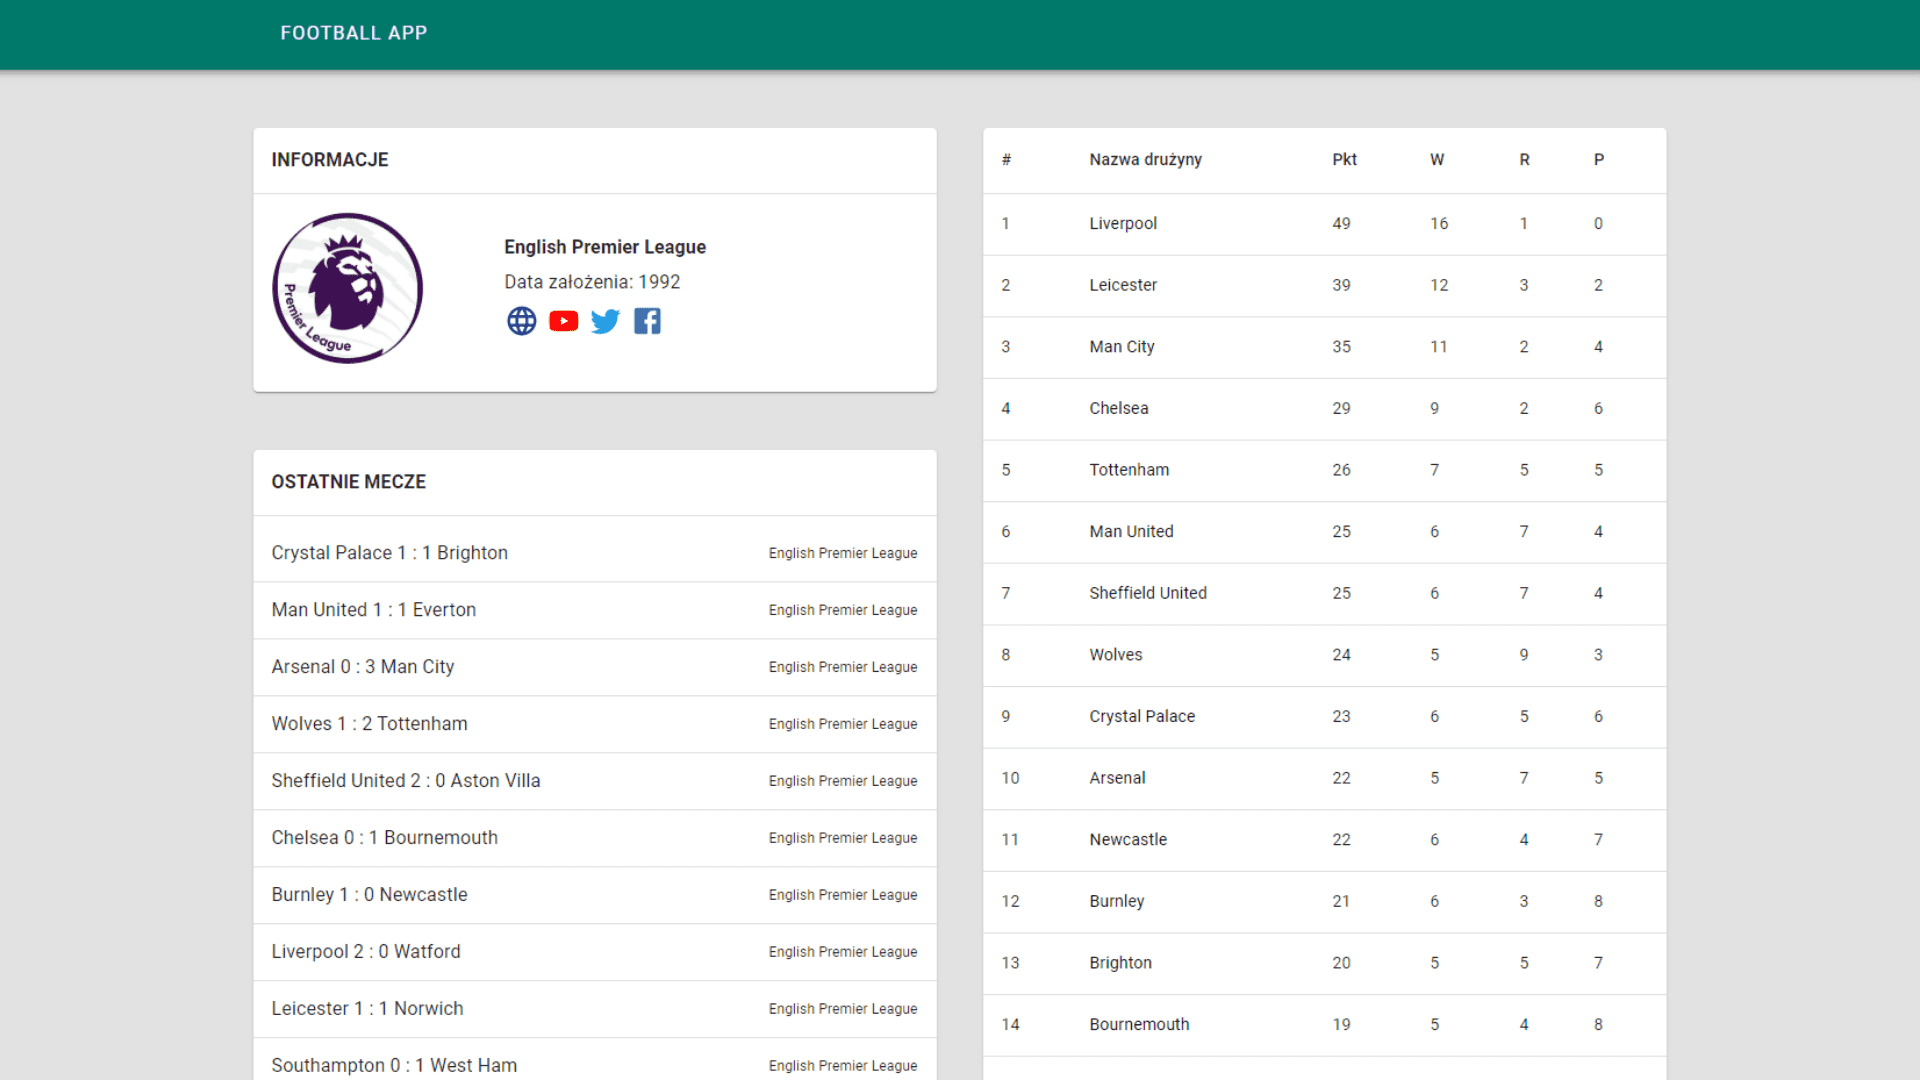
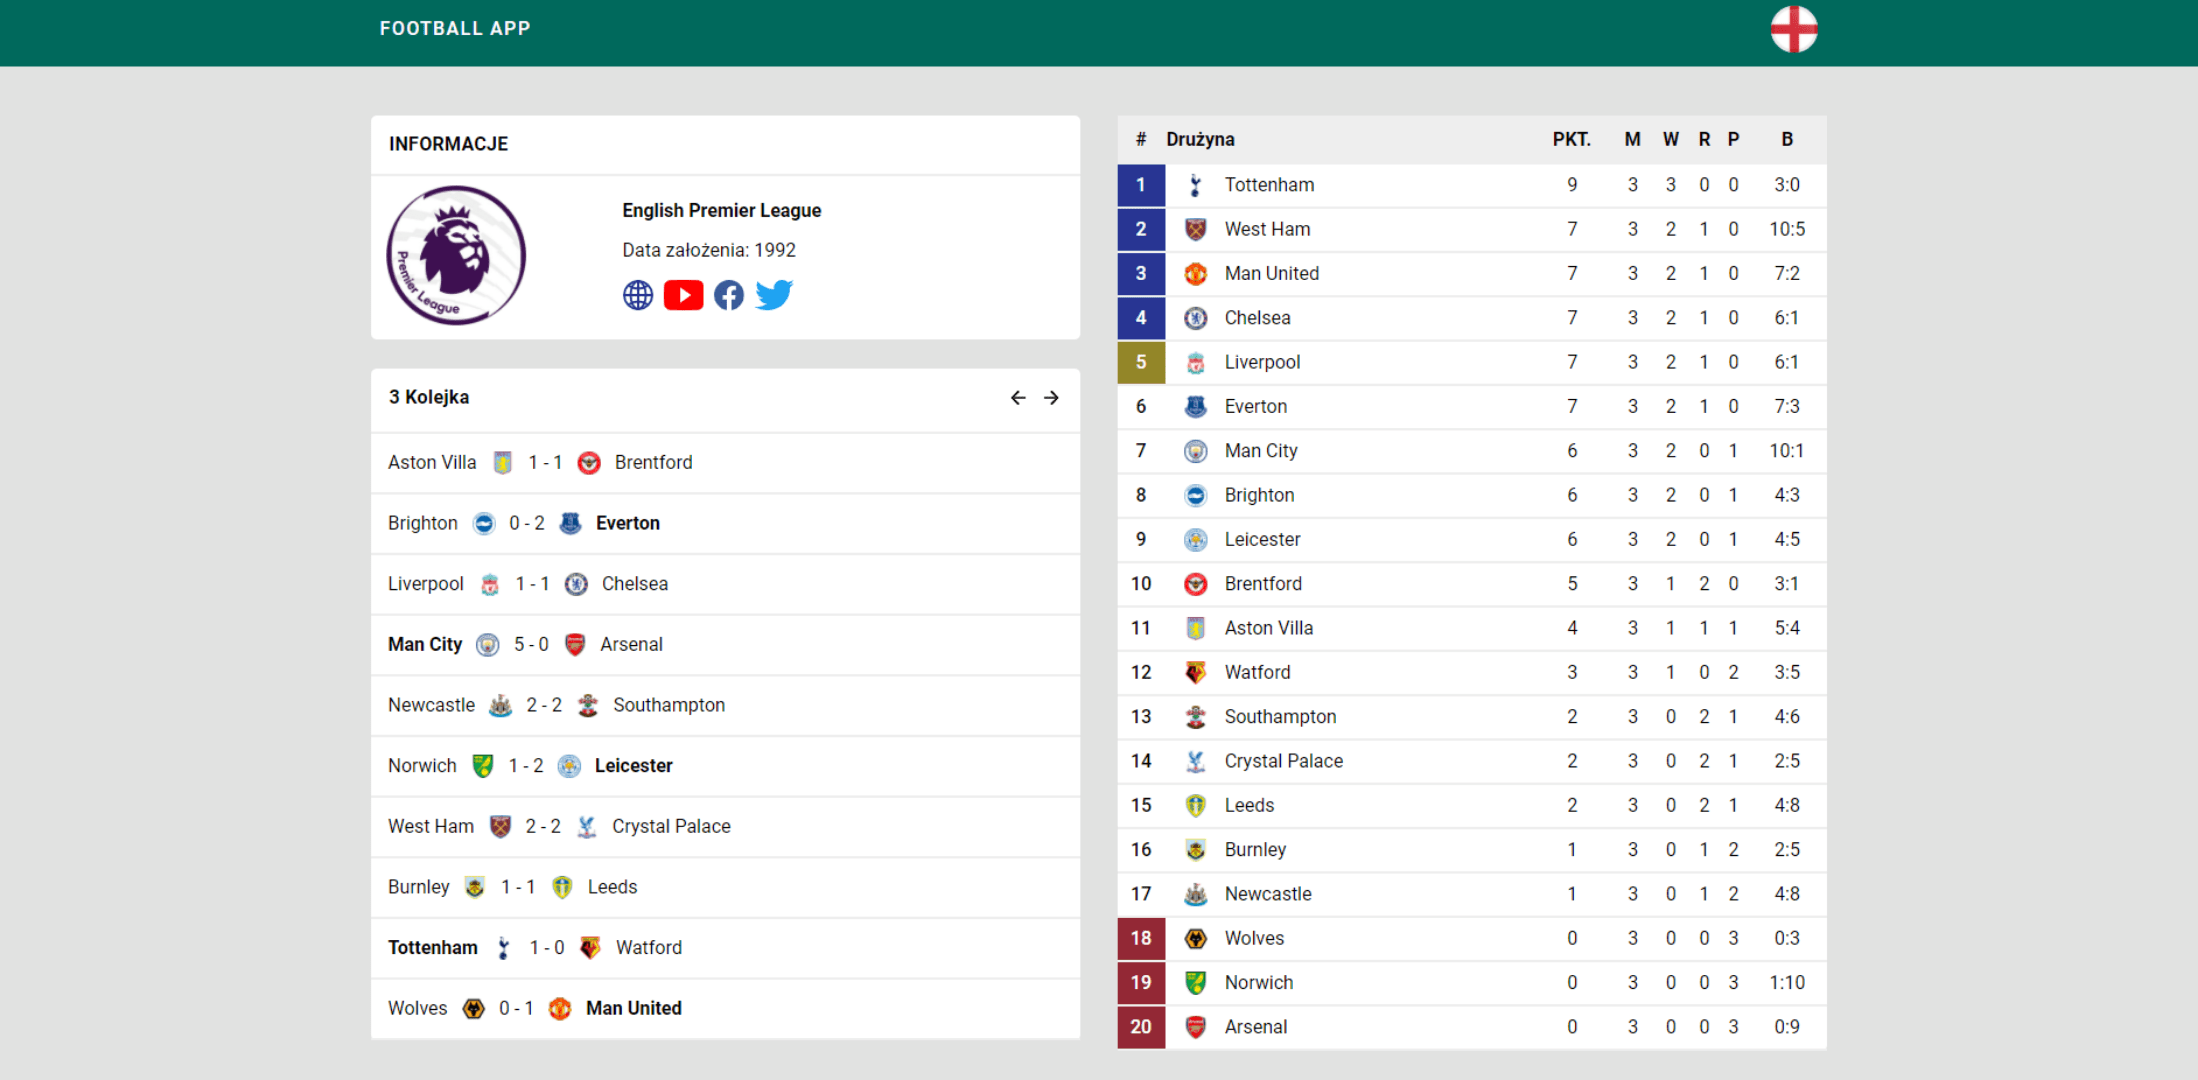
update content on website

diff --git a/index.html b/index.html
@@ -336,36 +336,33 @@
           <div class="col-12 col-m-10 col-l-6">
             <div class="project__img">
               <img
-                src="./app/assets/img/projects/pokedex.png"
+                src="./app/assets/img/projects/football_app.png"
                 alt="obrazek przedstawiający projekt"
               />
             </div>
           </div>
           <div class="col-12 col-m-10 col-l-6 project--left">
             <div class="project">
-              <h3 class="project__title">Pokedex</h3>
+              <h3 class="project__title">Football app</h3>
               <ul>
                 <li class="project__technology">
                   React
                 </li>
-                <li class="project__technology">Redux</li>
-                <li class="project__technology">Material UI</li>
+                <li class="project__technology">Styled components</li>
               </ul>
               <p class="project__description">
-                Aplikacja na głównej stronie wyświetla listę wszystkich pokemonów, na samym dole
-                mamy dostepną paginację. Pokemony możemy filtrować ze wzgęldu na ich typ, oraz sortować
-                alfabetycznie. Klikając na danego pokemona dostępny jest jego szczegółowy widok. Aplikacja posiada także
-                możliwość wyszukiwania pokemonów po nazwie.
+                Aplikacja wyświetla informacje dla najpopularniejszych europejskich lig piłkarskich. Projekt składa się z widoku ligi gdzie mamy dostępną aktualną
+                tabelę a także terminarz spotkań. Klikając w strzałki możemy przejśc do poprzedniej lub następnej kolejki danych rozgywek.
               </p>
               <div class="project__btn-wrapper">
                 <a
-                  href="https://github.com/zloty60/pokedex"
+                  href="https://github.com/zloty60/football-app"
                   class="button button--orange-light button--m"
                 >
                   code
                 </a>
                 <a
-                  href="https://zloty60.github.io/pokedex/#/"
+                  href="https://zloty60.github.io/football-app/#/"
                   class="button button--green button--m"
                   >live</a
                 >
@@ -373,6 +370,7 @@
             </div>
           </div>
         </div>
+
         <div class="row section__project project--mb">
           <div class="col-12 col-m-10 col-l-6 project--order-2">
             <div class="project__img">
@@ -415,39 +413,41 @@
 
 
 
+
         <div class="row section__project project--mb">
-          <div class="col-12 col-m-10 col-l-6  ">
+          <div class="col-12 col-m-10 col-l-6">
             <div class="project__img">
               <img
-                src="./app/assets/img/projects/countries-app.png"
+                src="./app/assets/img/projects/pokedex.png"
                 alt="obrazek przedstawiający projekt"
               />
             </div>
           </div>
-          <div class="col-12 col-m-10 col-l-6   project--left">
+          <div class="col-12 col-m-10 col-l-6 project--left">
             <div class="project">
-              <h3 class="project__title ">Countries app</h3>
+              <h3 class="project__title">Pokedex</h3>
               <ul>
                 <li class="project__technology">
                   React
                 </li>
-                <li class="project__technology">Hooks</li>
+                <li class="project__technology">Redux</li>
+                <li class="project__technology">Material UI</li>
               </ul>
               <p class="project__description">
-                Projekt stworzony w celu nauki react hooks. Aplikacja pokazuje
-                nam listę krajów , którą możemy wyświeltać w różnej kolejności
-                np. najludniejsze kraje a także wyświetlać kraje z danego
-                kontynentu. Gdy klikniemy w kraj mamy jego szczegółowy widok.
+                Aplikacja na głównej stronie wyświetla listę wszystkich pokemonów, na samym dole
+                mamy dostepną paginację. Pokemony możemy filtrować ze wzgęldu na ich typ, oraz sortować
+                alfabetycznie. Klikając na danego pokemona dostępny jest jego szczegółowy widok. Aplikacja posiada także
+                możliwość wyszukiwania pokemonów po nazwie.
               </p>
               <div class="project__btn-wrapper">
                 <a
-                  href="https://github.com/zloty60/countries-app"
+                  href="https://github.com/zloty60/pokedex"
                   class="button button--orange-light button--m"
                 >
                   code
                 </a>
                 <a
-                  href="https://zloty60.github.io/countries-app"
+                  href="https://zloty60.github.io/pokedex/#/"
                   class="button button--green button--m"
                   >live</a
                 >
@@ -455,7 +455,6 @@
             </div>
           </div>
         </div>
-
 
         <div class="row section__project project--mb">
           <div class="col-12 col-m-10 col-l-6 project--order-2">
@@ -536,41 +535,39 @@
             </div>
           </div>
         </div>
+
         <div class="row section__project">
           <div class="col-12 col-m-10 col-l-6 project--order-2">
             <div class="project__img">
               <img
-              src="./app/assets/img/projects/football_app.png"
+              src="./app/assets/img/projects/countries-app.png"
                 alt="obrazek przedstawiający projekt"
               />
             </div>
           </div>
           <div class="col-12 col-m-10 col-l-6 project--order-1 ">
             <div class="project">
-              <h3 class="project__title">Football app</h3>
+              <h3 class="project__title">Countries app</h3>
               <ul>
                 <li class="project__technology">
                   React
                 </li>
-                <li class="project__technology">Redux</li>
-                <li class="project__technology">Material UI</li>
+                <li class="project__technology">Hooks</li>
               </ul>
               <p class="project__description">
-                Aplikacja wyświetla informacje dla najpopularniejszych
-                europejskich lig piłkarskich. Projekt składa się z widoku ligi
-                gdzie mamy dostępną aktualną tabelę a także ostatnie i
-                najbliższe spotkania. Klikając na nazwę drużyny lub ostatni mecz
-                aplikacja wyświetla nowy widok ze szczegółami.
+                Projekt stworzony w celu nauki react hooks.
+                Aplikacja pokazuje nam listę krajów , którą możemy wyświeltać w różnej kolejności np. najludniejsze kraje a także wyświetlać kraje z danego kontynentu.
+                Gdy klikniemy w kraj mamy jego szczegółowy widok.
               </p>
               <div class="project__btn-wrapper">
                 <a
-                  href="https://github.com/zloty60/football_app"
+                  href="https://github.com/zloty60/countries-app"
                   class="button button--orange-light button--m"
                 >
                   code
                 </a>
                 <a
-                  href="https://zloty60.github.io/football_app"
+                  href="https://zloty60.github.io/countries-app/#/"
                   class="button button--green button--m"
                   >live</a
                 >
@@ -612,3 +609,4 @@
     <script src="./app/js/index.js"></script>
   </body>
 </html>
+

diff --git a/dist/index.html b/dist/index.html
@@ -265,34 +265,32 @@
         <div class="row section__project project--mb">
           <div class="col-12 col-m-10 col-l-6">
             <div class="project__img">
-              <img src="/pokedex.86f735b2.png" alt="obrazek przedstawiający projekt">
+              <img src="/football_app.cf0572f6.png" alt="obrazek przedstawiający projekt">
             </div>
           </div>
           <div class="col-12 col-m-10 col-l-6 project--left">
             <div class="project">
-              <h3 class="project__title">Pokedex</h3>
+              <h3 class="project__title">Football app</h3>
               <ul>
                 <li class="project__technology">
                   React
                 </li>
-                <li class="project__technology">Redux</li>
-                <li class="project__technology">Material UI</li>
+                <li class="project__technology">Styled components</li>
               </ul>
               <p class="project__description">
-                Aplikacja na głównej stronie wyświetla listę wszystkich pokemonów, na samym dole
-                mamy dostepną paginację. Pokemony możemy filtrować ze wzgęldu na ich typ, oraz sortować
-                alfabetycznie. Klikając na danego pokemona dostępny jest jego szczegółowy widok. Aplikacja posiada także
-                możliwość wyszukiwania pokemonów po nazwie.
+                Aplikacja wyświetla informacje dla najpopularniejszych europejskich lig piłkarskich. Projekt składa się z widoku ligi gdzie mamy dostępną aktualną
+                tabelę a także terminarz spotkań. Klikając w strzałki możemy przejśc do poprzedniej lub następnej kolejki danych rozgywek.
               </p>
               <div class="project__btn-wrapper">
-                <a href="https://github.com/zloty60/pokedex" class="button button--orange-light button--m">
+                <a href="https://github.com/zloty60/football-app" class="button button--orange-light button--m">
                   code
                 </a>
-                <a href="https://zloty60.github.io/pokedex/#/" class="button button--green button--m">live</a>
+                <a href="https://zloty60.github.io/football-app/#/" class="button button--green button--m">live</a>
               </div>
             </div>
           </div>
         </div>
+
         <div class="row section__project project--mb">
           <div class="col-12 col-m-10 col-l-6 project--order-2">
             <div class="project__img">
@@ -325,37 +323,38 @@
 
 
 
+
         <div class="row section__project project--mb">
-          <div class="col-12 col-m-10 col-l-6  ">
+          <div class="col-12 col-m-10 col-l-6">
             <div class="project__img">
-              <img src="/countries-app.df4e8d49.png" alt="obrazek przedstawiający projekt">
+              <img src="/pokedex.86f735b2.png" alt="obrazek przedstawiający projekt">
             </div>
           </div>
-          <div class="col-12 col-m-10 col-l-6   project--left">
+          <div class="col-12 col-m-10 col-l-6 project--left">
             <div class="project">
-              <h3 class="project__title ">Countries app</h3>
+              <h3 class="project__title">Pokedex</h3>
               <ul>
                 <li class="project__technology">
                   React
                 </li>
-                <li class="project__technology">Hooks</li>
+                <li class="project__technology">Redux</li>
+                <li class="project__technology">Material UI</li>
               </ul>
               <p class="project__description">
-                Projekt stworzony w celu nauki react hooks. Aplikacja pokazuje
-                nam listę krajów , którą możemy wyświeltać w różnej kolejności
-                np. najludniejsze kraje a także wyświetlać kraje z danego
-                kontynentu. Gdy klikniemy w kraj mamy jego szczegółowy widok.
+                Aplikacja na głównej stronie wyświetla listę wszystkich pokemonów, na samym dole
+                mamy dostepną paginację. Pokemony możemy filtrować ze wzgęldu na ich typ, oraz sortować
+                alfabetycznie. Klikając na danego pokemona dostępny jest jego szczegółowy widok. Aplikacja posiada także
+                możliwość wyszukiwania pokemonów po nazwie.
               </p>
               <div class="project__btn-wrapper">
-                <a href="https://github.com/zloty60/countries-app" class="button button--orange-light button--m">
+                <a href="https://github.com/zloty60/pokedex" class="button button--orange-light button--m">
                   code
                 </a>
-                <a href="https://zloty60.github.io/countries-app" class="button button--green button--m">live</a>
+                <a href="https://zloty60.github.io/pokedex/#/" class="button button--green button--m">live</a>
               </div>
             </div>
           </div>
         </div>
-
 
         <div class="row section__project project--mb">
           <div class="col-12 col-m-10 col-l-6 project--order-2">
@@ -416,34 +415,32 @@
             </div>
           </div>
         </div>
+
         <div class="row section__project">
           <div class="col-12 col-m-10 col-l-6 project--order-2">
             <div class="project__img">
-              <img src="/football_app.cf0572f6.png" alt="obrazek przedstawiający projekt">
+              <img src="/countries-app.df4e8d49.png" alt="obrazek przedstawiający projekt">
             </div>
           </div>
           <div class="col-12 col-m-10 col-l-6 project--order-1 ">
             <div class="project">
-              <h3 class="project__title">Football app</h3>
+              <h3 class="project__title">Countries app</h3>
               <ul>
                 <li class="project__technology">
                   React
                 </li>
-                <li class="project__technology">Redux</li>
-                <li class="project__technology">Material UI</li>
+                <li class="project__technology">Hooks</li>
               </ul>
               <p class="project__description">
-                Aplikacja wyświetla informacje dla najpopularniejszych
-                europejskich lig piłkarskich. Projekt składa się z widoku ligi
-                gdzie mamy dostępną aktualną tabelę a także ostatnie i
-                najbliższe spotkania. Klikając na nazwę drużyny lub ostatni mecz
-                aplikacja wyświetla nowy widok ze szczegółami.
+                Projekt stworzony w celu nauki react hooks.
+                Aplikacja pokazuje nam listę krajów , którą możemy wyświeltać w różnej kolejności np. najludniejsze kraje a także wyświetlać kraje z danego kontynentu.
+                Gdy klikniemy w kraj mamy jego szczegółowy widok.
               </p>
               <div class="project__btn-wrapper">
-                <a href="https://github.com/zloty60/football_app" class="button button--orange-light button--m">
+                <a href="https://github.com/zloty60/countries-app" class="button button--orange-light button--m">
                   code
                 </a>
-                <a href="https://zloty60.github.io/football_app" class="button button--green button--m">live</a>
+                <a href="https://zloty60.github.io/countries-app/#/" class="button button--green button--m">live</a>
               </div>
             </div>
           </div>
@@ -478,3 +475,4 @@
     <script src="/js.55b70bcf.js"></script>
   </body>
 </html>
+

diff --git a/dist/js.55b70bcf.js b/dist/js.55b70bcf.js
@@ -932,7 +932,7 @@ var parent = module.bundle.parent;
 if ((!parent || !parent.isParcelRequire) && typeof WebSocket !== 'undefined') {
   var hostname = "" || location.hostname;
   var protocol = location.protocol === 'https:' ? 'wss' : 'ws';
-  var ws = new WebSocket(protocol + '://' + hostname + ':' + "53834" + '/');
+  var ws = new WebSocket(protocol + '://' + hostname + ':' + "52398" + '/');
 
   ws.onmessage = function (event) {
     checkedAssets = {};

diff --git a/dist/scss.e6b246a8.js b/dist/scss.e6b246a8.js
@@ -223,7 +223,7 @@ var parent = module.bundle.parent;
 if ((!parent || !parent.isParcelRequire) && typeof WebSocket !== 'undefined') {
   var hostname = "" || location.hostname;
   var protocol = location.protocol === 'https:' ? 'wss' : 'ws';
-  var ws = new WebSocket(protocol + '://' + hostname + ':' + "53834" + '/');
+  var ws = new WebSocket(protocol + '://' + hostname + ':' + "52398" + '/');
 
   ws.onmessage = function (event) {
     checkedAssets = {};
